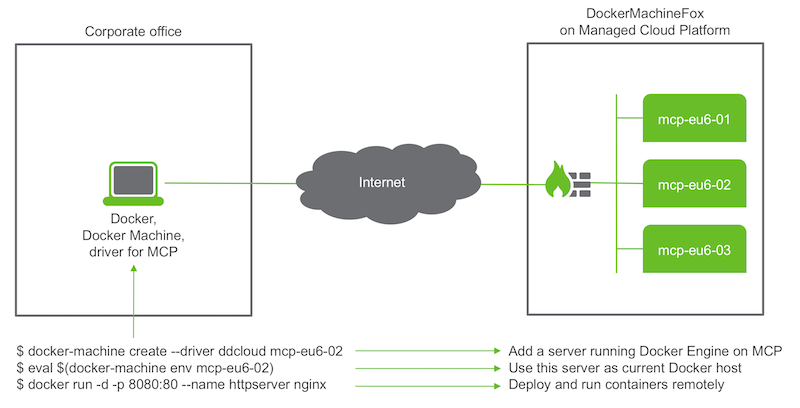
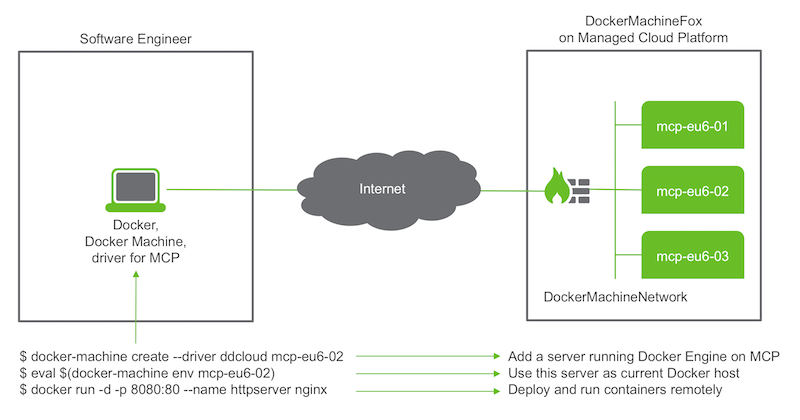
initial release of the setup page

diff --git a/docs/setup.md b/docs/setup.md
@@ -1,29 +1,242 @@
 # Setup of your environment
 
-Docker Machine provides a unified experience of running containers across multiple cloud platforms. On this page we focus specifically on the [Managed Cloud Platform from Dimension Data](http://cloud.dimensiondata.com/eu/en/). As a software developer, you may want to handle containers at shared or at on-premises cloud facilities provided by Dimension Data. Follow instructions below and learn how to harness the power of containers, right from your laptop.
+Docker Machine provides a unified experience of running containers across multiple cloud platforms. On this page we focus specifically on the [Managed Cloud Platform from Dimension Data](http://cloud.dimensiondata.com/). As a software developer, you may want to handle containers at shared or at on-premises cloud facilities provided by Dimension Data. Follow instructions below and learn how to harness the power of containers, right from your laptop.
 
 As a starting point, the diagram below puts Docker, Docker Machine and Docker Engine in context.
 
 ![Architecture](architecture.png)
 
-## Install Docker Machine on development workstation
+[Docker](https://www.docker.com/) and [Docker Machine](https://docs.docker.com/machine/overview/) are sitting at the development workstation. Docker Machine is a tool that lets you install [Docker Engine](https://www.docker.com/products/docker-engine) on virtual hosts, and manage the hosts with `docker-machine` commands. You can use Machine to create Docker hosts on your local Mac or Windows workstation, on your company network, in your data center, or on cloud providers like AWS or Dimension Data. In other terms, Docker Machine allows software engineers to handle containers almost anywhere on Earth.
 
-* install Docker Machine
-* add the driver from Dimension Data
+Docker Machine interact with any [Managed Cloud Platform](http://cloud.dimensiondata.com/), be it a public, hosted or on-premises cloud facilities delivered by Dimension Data or by one partner of the One Cloud alliance.
 
-## Prepare target environment on MCP
+## From CloudControl to Docker Machine
 
-* select a MCP
-* create a Network Domain
-* add a VLAN
-* add some firewall rules
+The consumption of Docker containers on the Managed Cloud Platform is based on following elements:
+* a working Docker and Docker Machine environment
+* the addition of the Docker Machine driver from Dimension Data
+* MCP credentials
 
-## How to create a Docker Engine host with Docker Machine?
+In other terms, if you have already used the CloudControl web interface, then you are fully eligible to consume Docker containers as well, right from your workstation.
 
-* sample command
-* run a simple command (hello-world)
+## How to install Docker Machine?
+
+On Mac and on Windows, Docker Machine is installed along with other Docker products when you install the Docker Toolbox. For details, check [the download page for Docker Toolbox](https://www.docker.com/products/docker-toolbox) first, then look either at [Mac installation instructions](https://docs.docker.com/toolbox/toolbox_install_mac/) or [Windows installation instructions](https://docs.docker.com/toolbox/toolbox_install_windows/).
+
+As an alternative to the installation of the full Docker Toolbox, you may prefer the direct download of the Docker Machine executable. For example on Mac and on Linux:
+
+```shell
+$ curl -L https://github.com/docker/machine/releases/download/v0.8.2/docker-machine-`uname -s`-`uname -m` >/usr/local/bin/docker-machine
+$ chmod +x /usr/local/bin/docker-machine
+```
+
+Quickly check the installation of Docker Machine with the following command:
+
+```
+$ docker-machine –v
+```
+
+Add [the Docker Machine driver from Dimension Data](https://github.com/DimensionDataResearch/docker-machine-driver-ddcloud/releases) and place the executable in the same directory as `docker-machine` executable (or somewhere on your `PATH`).
+
+Set your MCP credentials in the environment, and the initial password for hosts as well.
+
+On Mac and Linux:
+
+```
+$ nano ~/.bash_profile
+```
+
+Insert lines with your secrets:
+
+```
+# credentials for Docker Machine driver
+export MCP_USER="<your-name>"
+export MCP_PASSWORD='<your-password>'
+export MCP_SSH_BOOTSTRAP_PASSWORD="<root-password>"
+```
+
+Save the file with `Ctrl-O`, confirm, then exit with `Ctrl-X`.
+
+## Select data centers for your containers
+
+Where do you want to deploy containers? The global network of Managed Cloud Platforms is structured in independent regions. And every region has multiple data centers so that you can architect fault-tolerant systems. In most cases you will consider the data centers that are as close as possible from end-users, and limit network latency. Where data placement is important, select a Managed Cloud Platform in a suitable country, or contract with Dimension Data to add one.
+
+After the selection of a Managed Cloud Platform, you prepare a virtual data centre with the CloudControl web console. A virtual data centre consists at least of: a Network Domain, a VLAN, and appropriate firewall rules.
+
+The below is an example configuration sheet that you can adapt to your own needs.
+
+Managed Cloud Platform:
+* EU6 (in Frankfurt, Germany)
+* in region EU (the nick name for Europe)
+
+Network Domain:
+* name: DockerMachineFox
+* type: Essentials
+
+VLAN:
+* name: DockerMachineNetwork
+* subnet: 10.77.88.0/24
+
+Firewall rule to accept Docker traffic:
+* name: DockerInbound
+* protocol: TCP over IPv4
+* from: any host, any port
+* to: any host, port 2376
+
+Firewall rule to accept SSH traffic:
+* name: SshInbound
+* protocol: TCP over IPv4
+* from: any host, any port
+* to: any host, port 22
+
+Firewall rule to accept HTTP traffic:
+* name: HttpInbound
+* protocol: TCP over IPv4
+* from: any host, any port
+* to: any host, port 80
+
+Firewall rule to accept HTTPS traffic:
+* name: HttpsInbound
+* protocol: TCP over IPv4
+* from: any host, any port
+* to: any host, port 443
+
+Firewall rule to accept HTTP proxy traffic:
+* name: HttpProxyInbound
+* protocol: TCP over IPv4
+* from: any host, any port
+* to: any host, port 8080
+
+If your containers accept other protocols over the internet then you will create additional rules accordingly.
+
+## How to create a host with Docker Machine?
+
+Use the command `docker-machine create` with appropriate parameters, and indicate the name of the new host. The sample command below creates the machine `mcp-eu-01` at EU6:
+
+```bash
+$ docker-machine create --driver ddcloud \
+    --ddcloud-region EU \
+    --ddcloud-datacenter EU6 \
+    --ddcloud-networkdomain 'DockerMachineFox' \
+    --ddcloud-vlan 'DockerMachineNetwork' \
+    --ddcloud-ssh-key ~/.ssh/id_rsa \
+    mcp-eu6-01
+```
+
+You can check the IP address of the new host, and locate security artifacts, with following command.
+
+```bash
+$ docker-machine config mcp-eu6-01
+```
+
+The output should be similar to this:
+
+```bash
+--tlsverify
+--tlscacert="/Users/bernard/.docker/machine/certs/ca.pem"
+--tlscert="/Users/bernard/.docker/machine/certs/cert.pem"
+--tlskey="/Users/bernard/.docker/machine/certs/key.pem"
+-H=tcp://168.128.13.169:2376
+```
+
+Now that you have one host up and running you can activate it with following command:
+
+```bash
+$ eval $(docker-machine env mcp-eu6-01)
+```
+
+As an example, let's try running the official Nginx container:
+
+```bash
+$ docker run -d -p 8080:80 --name httpserver nginx
+```
+
+In this command, port 80 in the Nginx container is mapped to port 8080 on the host. This is meaning that we can access the default Nginx page from anywhere. Open the link in a web browser, using the IP address given by the `config` command.
+
+```
+http://168.128.13.169:8080
+```
+
+![nginx](nginx.png)
+
+Congratulations! At this stage you have created a host and deployed a container, all from your workstation.
+
+## How to stop, start, or restart a host?
+
+At the Managed Cloud Platform a stopped server costs far less than a running server. Therefore, a good practice is to stop unused
+hosts when possible.
+
+```shell
+$ docker-machine stop mcp-eu6-01
+```
+You can start a host when you want using the following command.
+
+```shell
+$ docker-machine start mcp-eu6-01
+```
+
+If for some reason you have to restart a host, use the following command.
+
+```shell
+$ docker-machine restart mcp-eu6-01
+```
 
 ## How to handle multiple hosts?
 
-* docker-machine ls
-* defining current host
+Since it is so easy to create remote hosts with Docker Machine, you can quickly end up with several hosts.
+The list of hosts is shown with following command.
+
+```shell
+$ docker-machine ls
+```
+
+The output should be similar to this:
+
+```
+NAME         ACTIVE   DRIVER    STATE     URL                         SWARM   DOCKER    ERRORS
+mcp-eu6-01   *        ddcloud   Running   tcp://168.128.13.168:2376           v1.12.3
+mcp-eu6-02   -        ddcloud   Running   tcp://168.128.13.169:2376           v1.12.3
+```
+
+In this example, two hosts are available and `mcp-eu6-01` is currently active. This is meaning that all `docker` commands are executed there.
+You can switch to another host with a command like this:
+
+```shell
+$ eval $(docker-machine env mcp-eu6-02)
+```
+
+## How to execute commands on the host?
+
+Hosts created by Docker Machine are running Linux, so you can login directly:
+
+```shell
+$ docker-machine ssh mcp-eu6-02
+```
+
+Command prompt now reflects the fact that you're logged into the host as root:
+
+```shell
+root@mcp-eu6-02:~#
+```
+
+Type the combination `Ctrl-D` to exit the SSH session.
+
+Note that you can also run a command remotely for example.
+
+```shell
+$ docker-machine ssh mcp-eu6-01 apt-get update
+```
+
+Not sure what kernel your remote Docker host is using? Type the following:
+
+```shell
+$ docker-machine ssh mcp-eu6-01 uname -r
+```
+
+## How to remove a host?
+
+After this command all resources attached to the host will be lost, including permanent storage:
+
+```bash
+$ docker-machine rm mcp-eu6-01
+```
